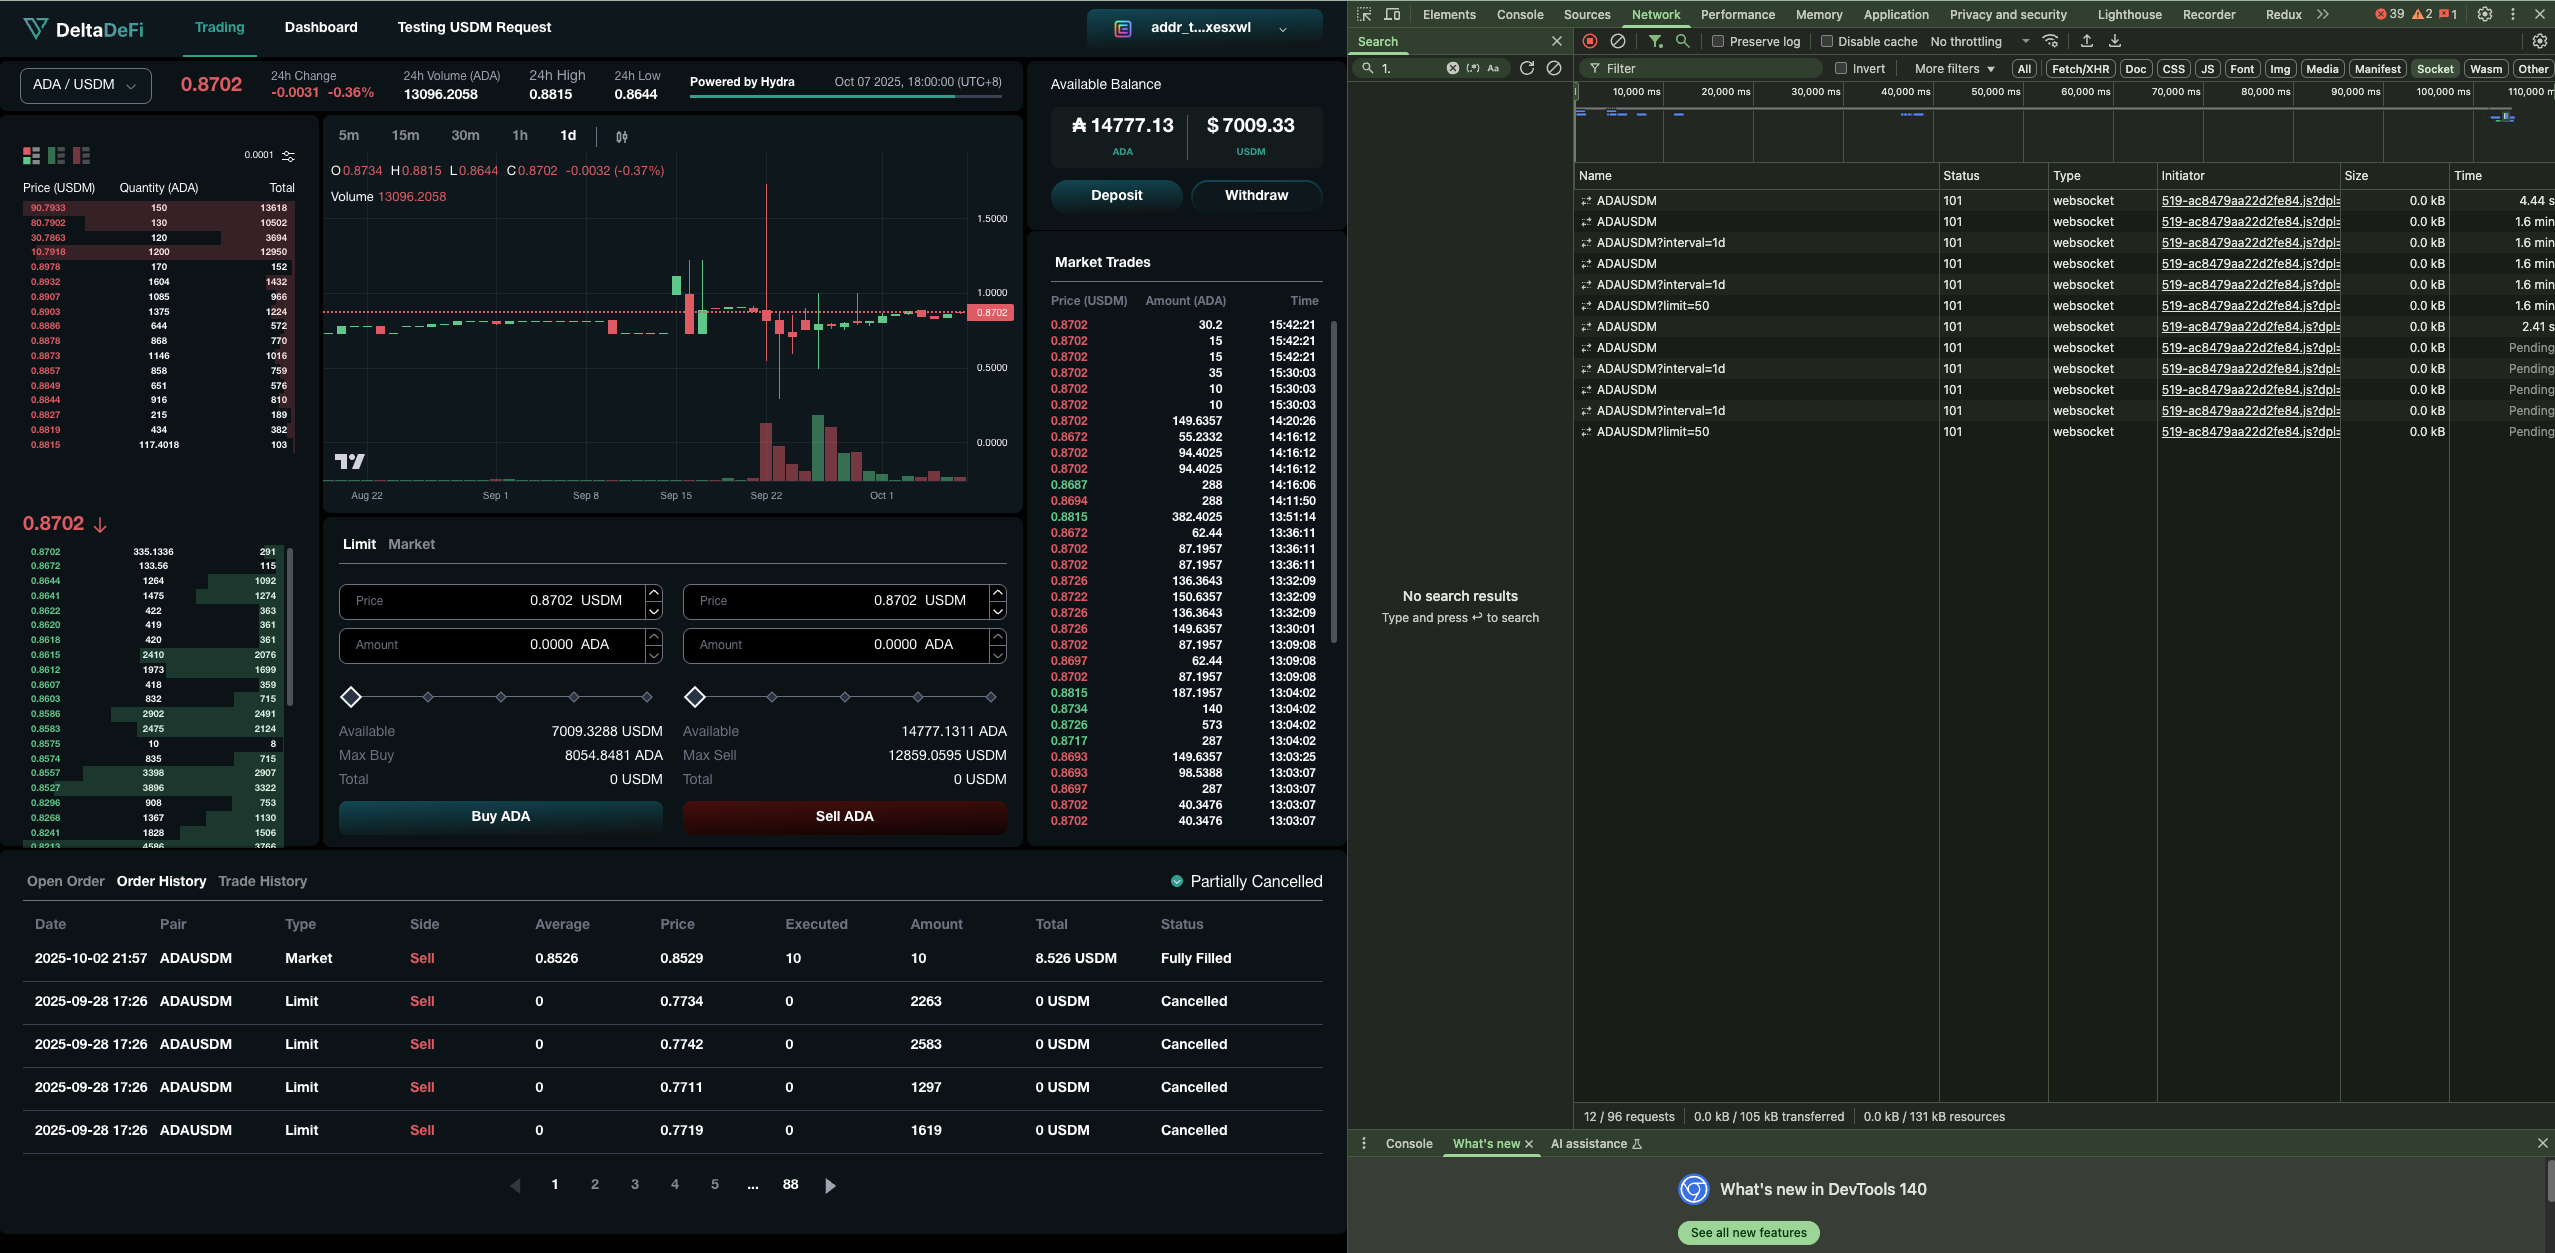
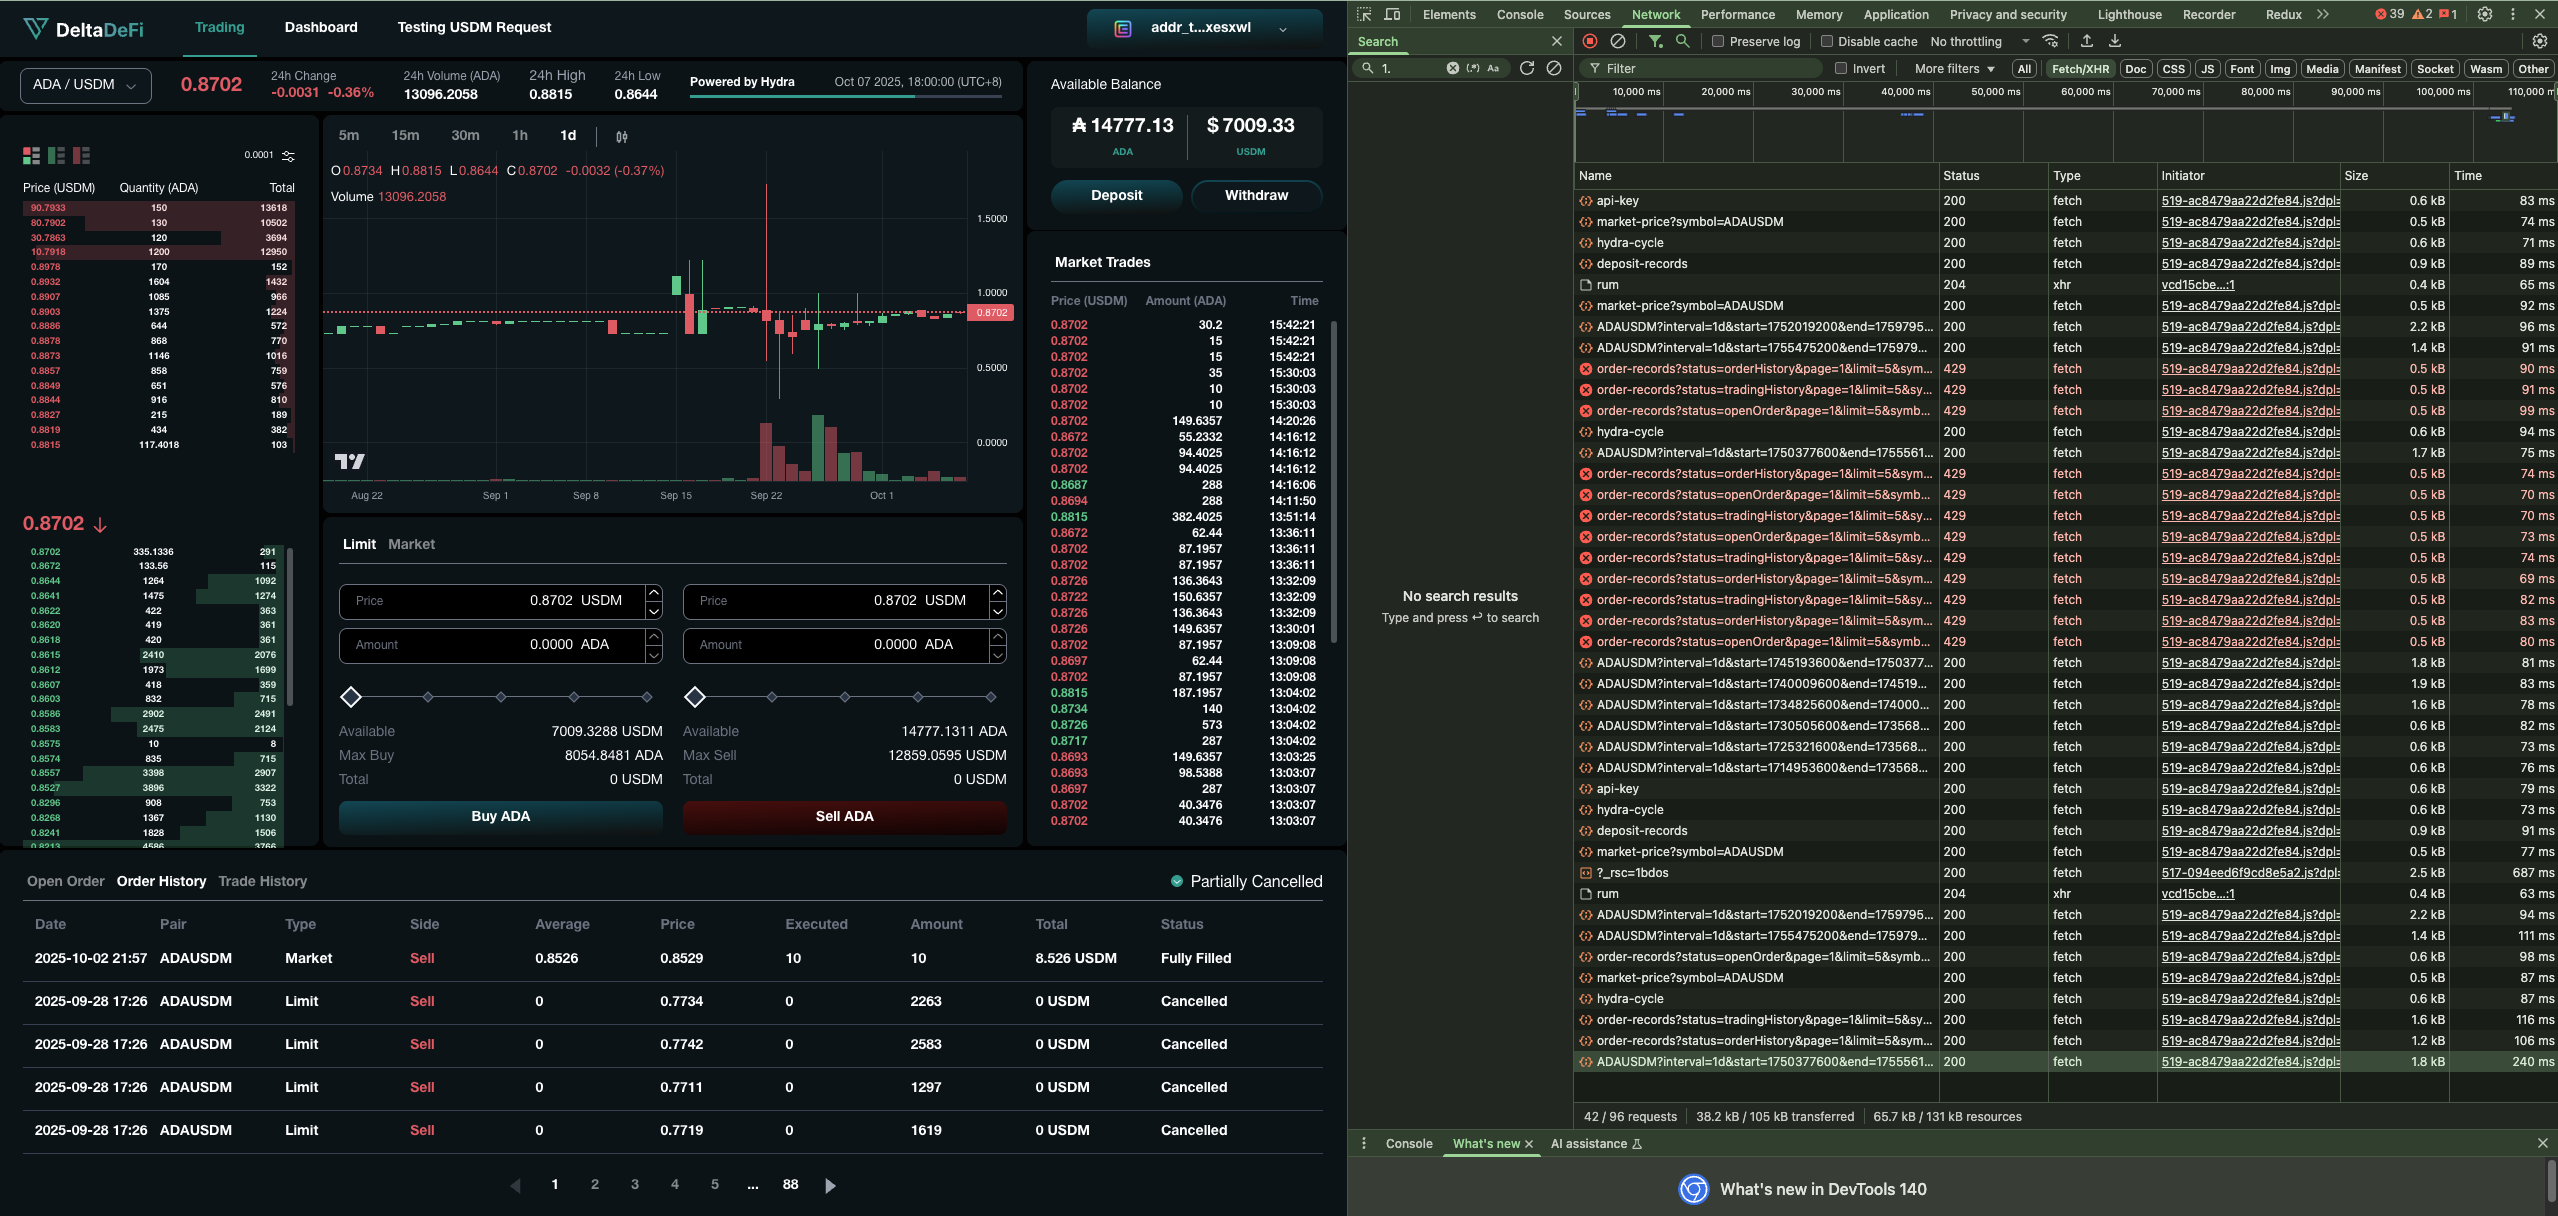
GITBOOK-125: No subject

diff --git a/faq/project-catalyst-f12-milestone-reporting/frontend-and-backend-integration-process-and-functionalities-testing.md b/faq/project-catalyst-f12-milestone-reporting/frontend-and-backend-integration-process-and-functionalities-testing.md
@@ -1,0 +1,205 @@
+---
+description: >-
+  Below documentation illustrate the key testing process of frontend & backend
+  integration
+---
+
+# Frontend & Backend Integration Process and Functionalities Testing
+
+
+
+<details>
+
+<summary><strong>Sign in to Account</strong></summary>
+
+After the user has pressed the connect wallet button and signed the wallet ownership verification message, frontend will send a signin request to backend using the `SignIn` API
+
+### POST - SignIn (Status Code)
+
+To be supplemented after latest testnet deployment
+
+
+
+### POST - SignIn (Request params)
+
+<figure><img src="../../.gitbook/assets/image.png" alt=""><figcaption></figcaption></figure>
+
+
+
+The request param is aligned with the required request param from the backend API
+
+<figure><img src="../../.gitbook/assets/image (54).png" alt=""><figcaption></figcaption></figure>
+
+
+
+### POST - SignIn (Response)
+
+<figure><img src="../../.gitbook/assets/image (55).png" alt=""><figcaption></figcaption></figure>
+
+
+
+The response fields are aligned with the required response fields from the backend API
+
+<figure><img src="../../.gitbook/assets/image (56).png" alt=""><figcaption></figcaption></figure>
+
+
+
+</details>
+
+<details>
+
+<summary>Get Spot Account Information</summary>
+
+After the user has performed a successful sign-in, frontend will call the GET spot-account API to retrieve necessary account information related to the user account
+
+### GET - Spot-account (Status Code)
+
+<figure><img src="../../.gitbook/assets/image (58).png" alt=""><figcaption></figcaption></figure>
+
+
+
+The `200 status code` shows the api is being called and responded successfully
+
+### GET - Spot-account (Response)
+
+<figure><img src="../../.gitbook/assets/image (59).png" alt=""><figcaption></figcaption></figure>
+
+
+
+The response fields are aligned with the required response fields from the backend API
+
+<figure><img src="../../.gitbook/assets/image (60).png" alt=""><figcaption></figcaption></figure>
+
+</details>
+
+<details>
+
+<summary>Get Deposit Records</summary>
+
+After successful signin, user can visit the dashboard page to view the deposit records. Frontend will call the GET deposit-records API to retrieve the deposit records by the user.
+
+### GET - Deposit-records (Status Code)
+
+<figure><img src="../../.gitbook/assets/image (61).png" alt=""><figcaption></figcaption></figure>
+
+
+
+The `200 status code` shows the api is being called and responded successfully
+
+### GET - Deposit-records (Response)
+
+<figure><img src="../../.gitbook/assets/image (62).png" alt=""><figcaption></figcaption></figure>
+
+
+
+The deposit records shown in dashboard page are aligned with the data returned by the backend API. The backend API response fields are aligned with the required response fields from the backend API
+
+<figure><img src="../../.gitbook/assets/image (63).png" alt=""><figcaption></figcaption></figure>
+
+
+
+</details>
+
+<details>
+
+<summary>Get Account Balance</summary>
+
+After successful signin, user can visit the trading page to view the account's available balance. Frontend will call the GET account-balance API to retrieve the account balance by the user.
+
+### GET - account-balance (Status Code)
+
+<figure><img src="../../.gitbook/assets/image (64).png" alt=""><figcaption></figcaption></figure>
+
+
+
+The `200 status code` shows the api is being called and responded successfully
+
+### GET - account-balance (Response)
+
+<figure><img src="../../.gitbook/assets/image (65).png" alt=""><figcaption></figcaption></figure>
+
+
+
+The available balance shown in trading page are aligned with the api response from backend. The response fields are aligned with the required response fields from the backend API
+
+<figure><img src="../../.gitbook/assets/image (66).png" alt=""><figcaption></figcaption></figure>
+
+</details>
+
+<details>
+
+<summary>Get Order Records (by Open Order)</summary>
+
+After successful signin, user can visit the trading page to view the open order records. Frontend will call the GET order-records API filtered by status (openOrder) to retrieve the open order records by the user.
+
+### GET - order-records (Status Code)
+
+<figure><img src="../../.gitbook/assets/image (67).png" alt=""><figcaption></figcaption></figure>
+
+
+
+The `200 status code` shows the api is being called and responded successfully
+
+
+
+### GET - order-records (Response)
+
+<figure><img src="../../.gitbook/assets/image (68).png" alt=""><figcaption></figcaption></figure>
+
+
+
+The open order records shown in trading page are aligned with the api response from backend. The response fields are aligned with the required response fields from the backend API
+
+<figure><img src="../../.gitbook/assets/image (69).png" alt=""><figcaption></figcaption></figure>
+
+</details>
+
+<details>
+
+<summary>Get Order Records (by Order History)</summary>
+
+After successful signin, user can visit the trading page to view the order history records. Frontend will call the GET order-records API filtered by status (orderHistory) to retrieve the order history records by the user.
+
+### GET - order-records (Status Code)
+
+<figure><img src="../../.gitbook/assets/image (70).png" alt=""><figcaption></figcaption></figure>
+
+
+
+The `200 status code` shows the api is being called and responded successfully
+
+### GET - order-records (Response)
+
+<figure><img src="../../.gitbook/assets/image (71).png" alt=""><figcaption></figcaption></figure>
+
+
+
+The order history records shown in trading page are aligned with the api response from backend. The response fields are aligned with the required response fields from the backend API
+
+<figure><img src="../../.gitbook/assets/image (72).png" alt=""><figcaption></figcaption></figure>
+
+</details>
+
+<details>
+
+<summary>Get Order Records (by Trade History)</summary>
+
+After successful signin, user can visit the trading page to view the trade history records. Frontend will call the GET order-records API filtered by status (tradeHistory) to retrieve the trade history records by the user.
+
+### GET - order-records (Status Code)
+
+<figure><img src="../../.gitbook/assets/image (73).png" alt=""><figcaption></figcaption></figure>
+
+
+
+The `200 status code` shows the api is being called and responded successfully
+
+### GET - order-records (Response)
+
+<figure><img src="../../.gitbook/assets/image (74).png" alt=""><figcaption></figcaption></figure>
+
+The trade history records shown in trading page are aligned with the api response from backend. The response fields are aligned with the required response fields from the backend API
+
+<figure><img src="../../.gitbook/assets/image (75).png" alt=""><figcaption></figcaption></figure>
+
+</details>

diff --git a/faq/project-catalyst-f12-milestone-reporting/backend-and-frontend-integration-description.md b/faq/project-catalyst-f12-milestone-reporting/backend-and-frontend-integration-description.md
@@ -35,7 +35,7 @@ A generic, type-safe HTTP client for REST API calls:
 
 We tested all backend integrated APIs using the fetch/XHR tab under the network tab of `Developer Tools`  tab in google chrome
 
-<figure><img src="../../.gitbook/assets/image.png" alt=""><figcaption></figcaption></figure>
+<figure><img src="../../.gitbook/assets/image (1).png" alt=""><figcaption></figcaption></figure>
 
 
 
@@ -53,7 +53,7 @@ We tested all backend integrated APIs using the fetch/XHR tab under the network 
 
 We tested all backend integrated websocket using the socket tab under the network tab of `Developer Tools`  tab in google chrome
 
-<figure><img src="../../.gitbook/assets/image (1).png" alt=""><figcaption></figcaption></figure>
+<figure><img src="../../.gitbook/assets/image (1) (1).png" alt=""><figcaption></figcaption></figure>
 
 ## Testing Coverage
 

diff --git a/faq/cardano.md b/faq/cardano.md
@@ -4,7 +4,7 @@
 
 If you want to get UTxO information for testing out APIs, you can find the UTxO information from various wallet interfaces:
 
-<figure><img src="../.gitbook/assets/image (1) (1).png" alt=""><figcaption><p>Example: Getting UTxO information from Eternl wallet</p></figcaption></figure>
+<figure><img src="../.gitbook/assets/image (1) (1) (1).png" alt=""><figcaption><p>Example: Getting UTxO information from Eternl wallet</p></figcaption></figure>
 
 If you want wallet UTxO information programmatically, the UTxO type accepted by our APIs is identical to the [Mesh](https://meshjs.dev/) type (Typescript SDK) and other SIDAN Lab tool chains:
 

diff --git a/SUMMARY.md b/SUMMARY.md
@@ -81,3 +81,4 @@
   * [Technical Architecture](faq/project-catalyst-f12-milestone-reporting/technical-architecture.md)
   * [User Flow Diagram & Wireframes](faq/project-catalyst-f12-milestone-reporting/user-flow-diagram-and-wireframes.md)
   * [Backend and Frontend Integration Description](faq/project-catalyst-f12-milestone-reporting/backend-and-frontend-integration-description.md)
+  * [Frontend & Backend Integration Process and Functionalities Testing](faq/project-catalyst-f12-milestone-reporting/frontend-and-backend-integration-process-and-functionalities-testing.md)
